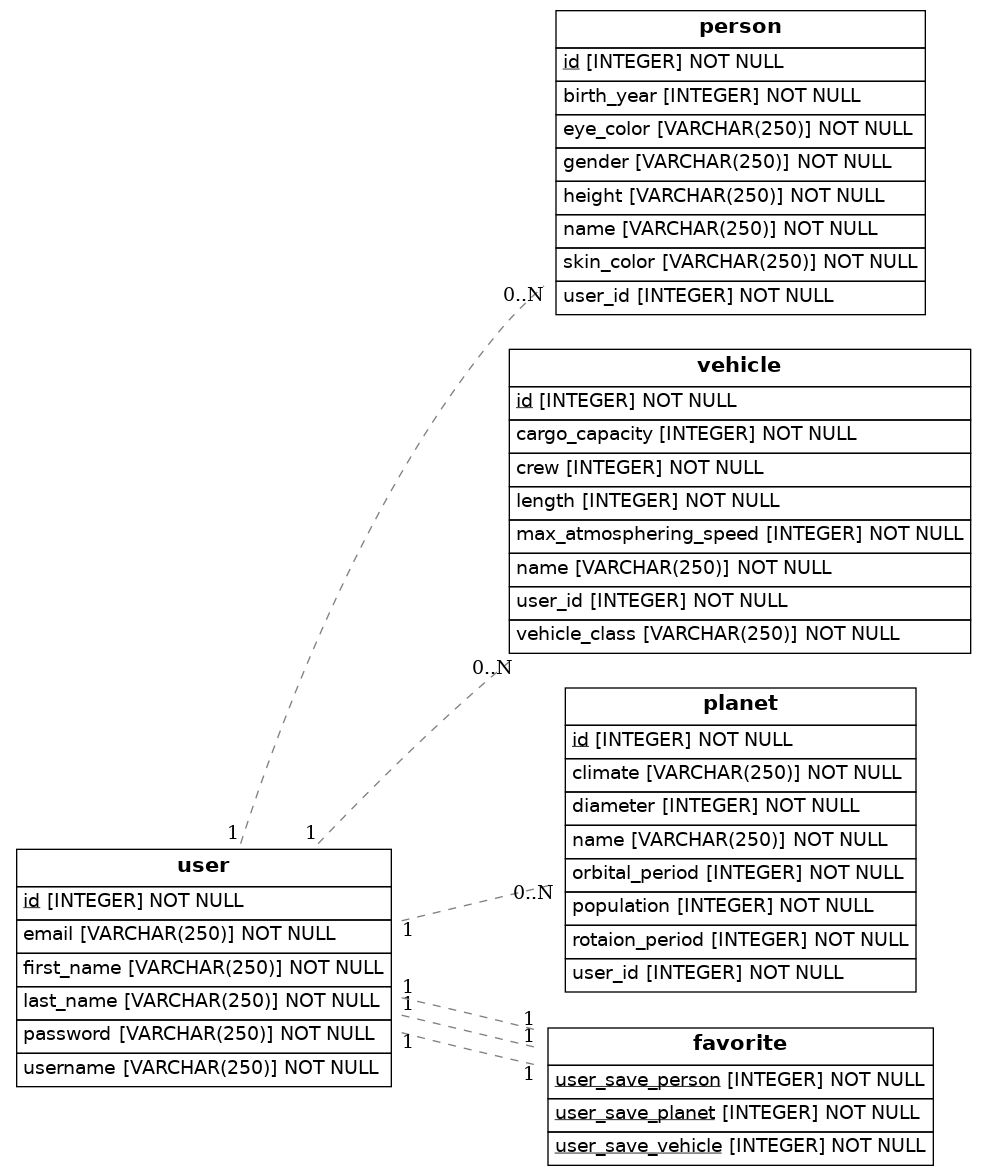
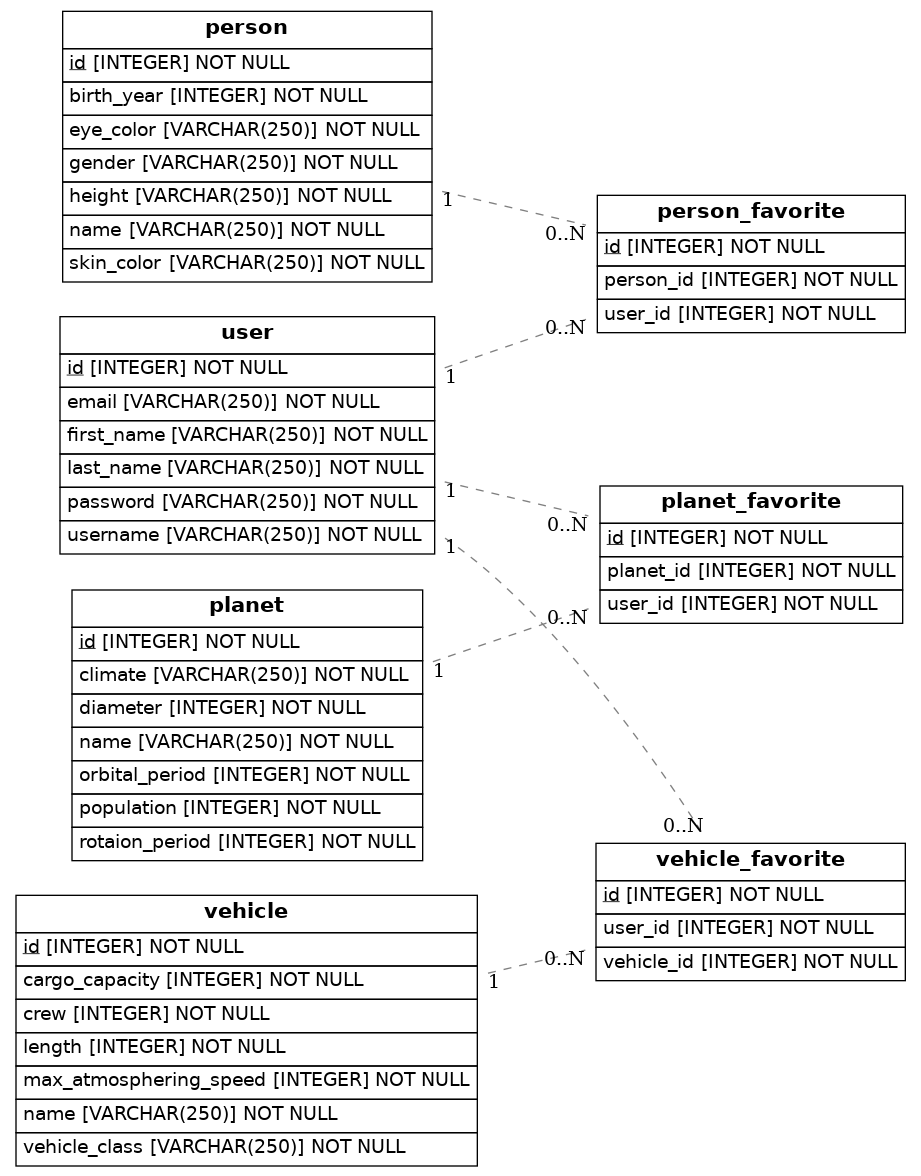
Finalizado

Changed region(s): [[0.0, 0.0, 1.0, 1.0], [0.0608, 0.0, 0.4864, 0.2451]]

diff --git a/src/models.py b/src/models.py
@@ -9,6 +9,8 @@ from eralchemy2 import render_er
 
 Base = declarative_base()
 
+
+
 class User(Base):
     __tablename__ = 'user'
     id = Column(Integer, primary_key=True)
@@ -17,11 +19,11 @@ class User(Base):
     last_name = Column(String(250), nullable=False)
     email = Column(String(250), nullable=False, unique=True)
     password = Column(String(250), nullable=False, unique=True)
+
+    person_favorite = relationship('Person_favorite', backref='user', lazy=True)
+    planet_favorite = relationship('Planet_favorite', backref='user', lazy=True)
+    vehicle_favorite = relationship('Vehicle_favorite', backref='user', lazy=True)
     
-    person = relationship('Person', backref='user', lazy=True)
-    vehicle = relationship('Vehicle', backref='user', lazy=True)
-    planet = relationship('Planet', backref='user', lazy=True)
-    favorite = relationship('Favorite', backref='user', lazy=True)
 
 class Person(Base):
     __tablename__ = 'person'
@@ -33,7 +35,8 @@ class Person(Base):
     skin_color = Column(String(250), nullable=False)
     eye_color = Column(String(250), nullable=False)
 
-    user_id = Column(Integer, ForeignKey('user.id'), nullable=False)  # Agregamos la relación ForeignKey
+    person_favorite = relationship('Person_favorite', backref='person', lazy=True)
+
 
 class Vehicle(Base):
     __tablename__ = 'vehicle'
@@ -45,7 +48,7 @@ class Vehicle(Base):
     max_atmosphering_speed = Column(Integer, nullable=False)
     cargo_capacity  = Column(Integer, nullable=False)
 
-    user_id = Column(Integer, ForeignKey('user.id'), nullable=False)
+    vehicle_favorite = relationship('Vehicle_favorite', backref='user', lazy=True)
 
 class Planet(Base):
     __tablename__ = 'planet'
@@ -57,14 +60,32 @@ class Planet(Base):
     rotaion_period = Column(Integer, nullable=False)
     diameter = Column(Integer, nullable=False)
     
+    planet_favorite = relationship('Planet_favorite', backref='planet', lazy=True)
+
+
+class Person_favorite(Base):
+    __tablename__ = 'person_favorite'
+    id = Column(Integer, primary_key=True)
     user_id = Column(Integer, ForeignKey('user.id'), nullable=False)
+    person_id = Column(Integer, ForeignKey('person.id'), nullable=False)
+
+class Planet_favorite(Base):
+    __tablename__ = 'planet_favorite'
+    id = Column(Integer, primary_key=True)
+    user_id = Column(Integer, ForeignKey('user.id'), nullable=False)
+    planet_id = Column(Integer, ForeignKey('planet.id'), nullable=False)
+
+class Vehicle_favorite(Base):
+    __tablename__ = 'vehicle_favorite'
+    id = Column(Integer, primary_key=True)
+    user_id = Column(Integer, ForeignKey('user.id'), nullable=False)
+    vehicle_id = Column(Integer, ForeignKey('vehicle.id'), nullable=False)
+    
 
 
-class Favorite(Base):
-    __tablename__ = 'favorite'
-    user_save_person = Column(Integer, ForeignKey('user.id'), primary_key=True)
-    user_save_vehicle = Column(Integer, ForeignKey('user.id'), primary_key=True)
-    user_save_planet = Column(Integer, ForeignKey('user.id'), primary_key=True)
+    # user_save_person = Column(Integer, ForeignKey('user.id'), primary_key=True)
+    # user_save_vehicle = Column(Integer, ForeignKey('user.id'), primary_key=True)
+    # user_save_planet = Column(Integer, ForeignKey('user.id'), primary_key=True)
 
 
 ## Draw from SQLAlchemy base
